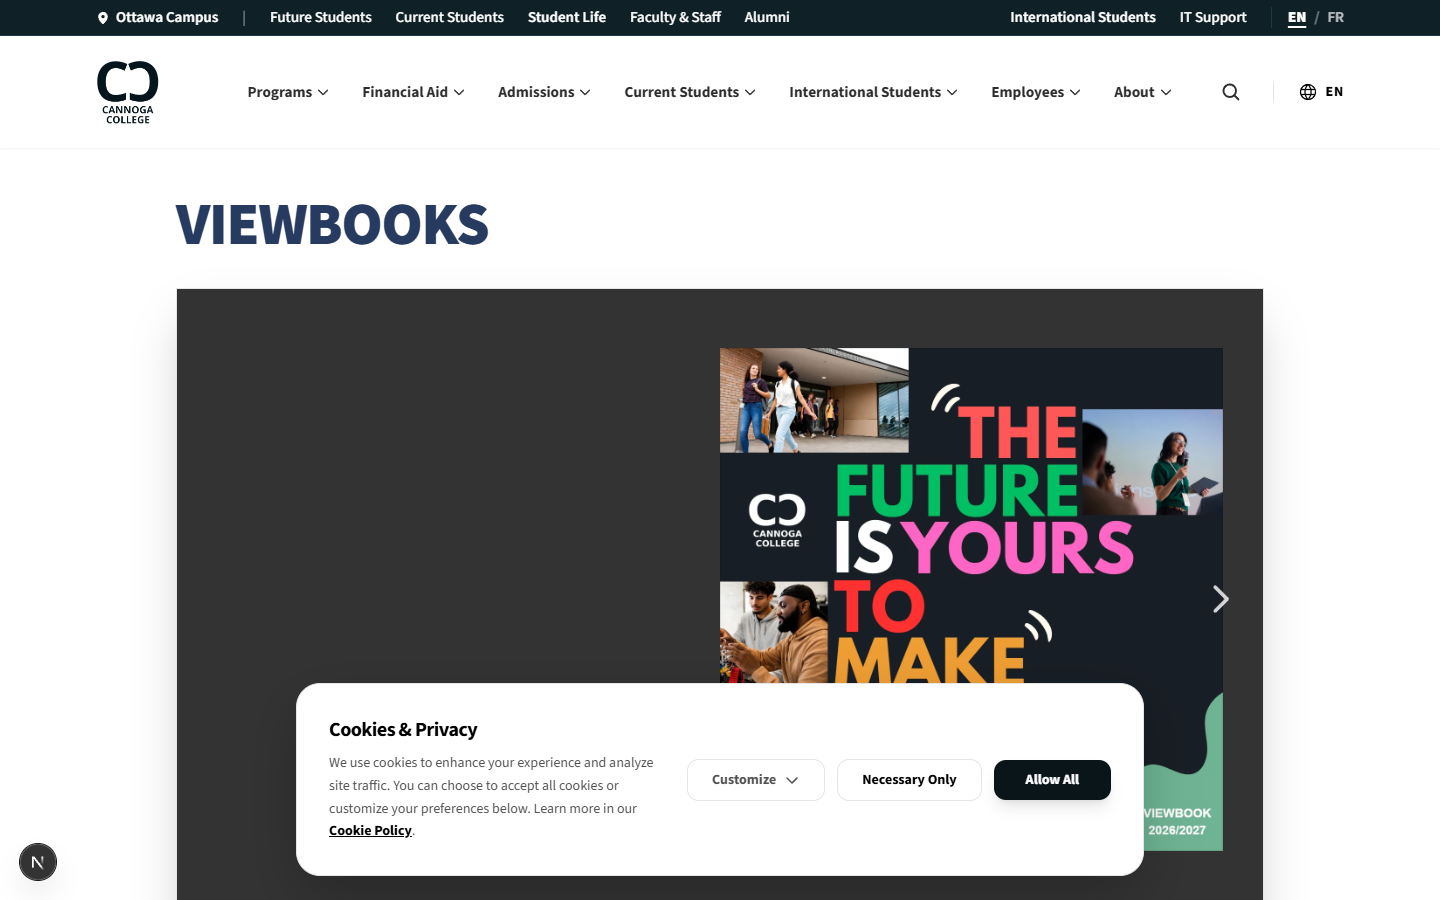
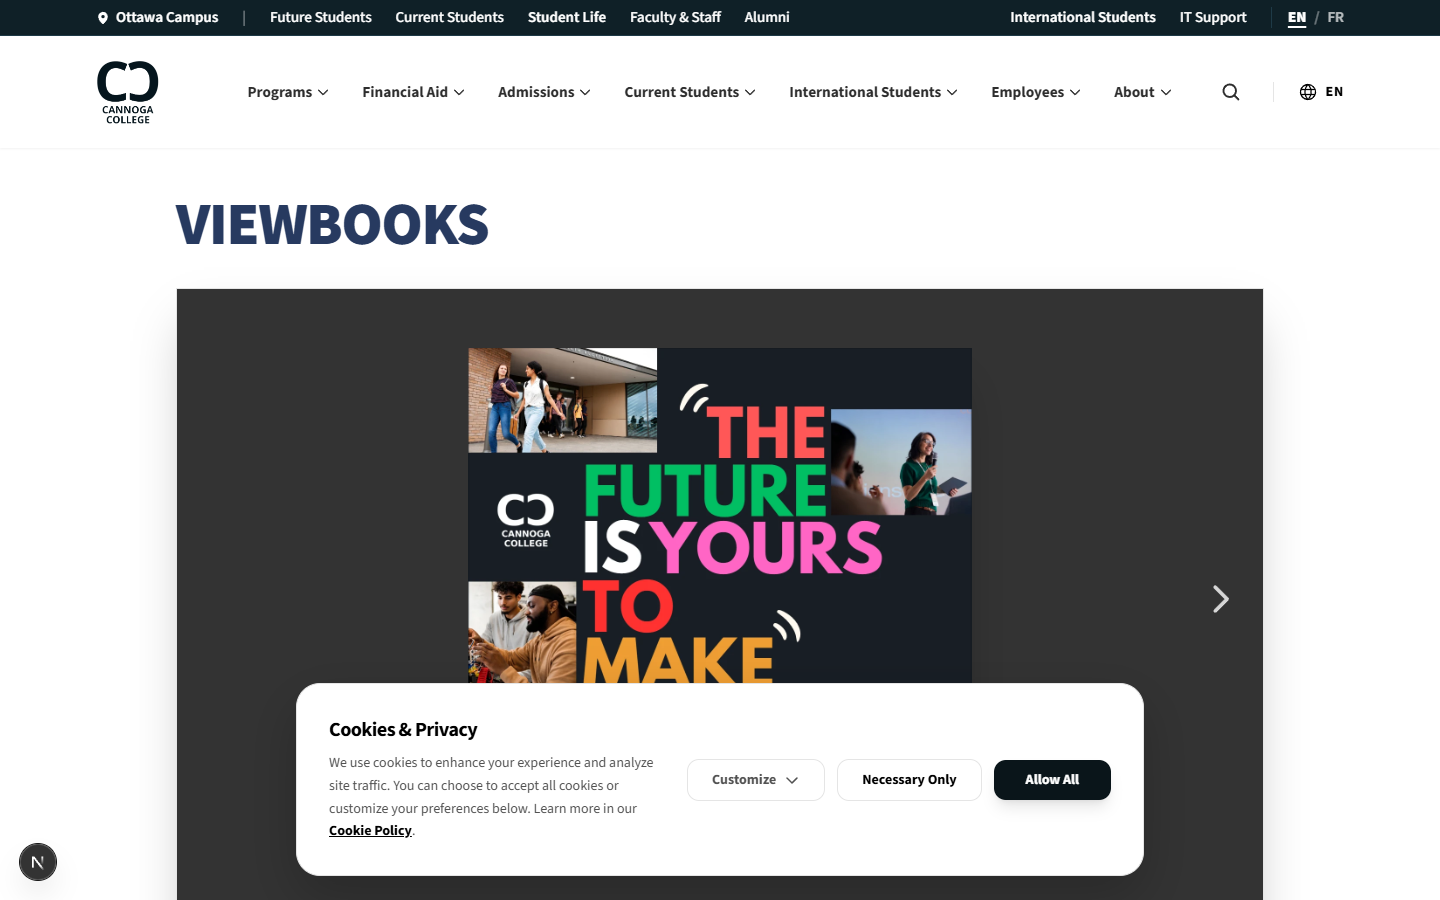
Remove loading modal from viewbook and clean up unused loader state

Changed region(s): [[0.3125, 0.3733, 0.875, 0.9644]]

diff --git a/src/components/flipbook/FlipbookViewer.tsx b/src/components/flipbook/FlipbookViewer.tsx
@@ -11,7 +11,6 @@ import { FlipbookToolbar } from './FlipbookToolbar';
 import { FlipbookThumbnails } from './FlipbookThumbnails';
 import { FlipbookSearch } from './FlipbookSearch';
 import { FlipbookShareModal } from './FlipbookShareModal';
-import { FlipbookLoader } from './FlipbookLoader';
 import { FlipbookError } from './FlipbookError';
 import { trackViewbookEvent } from '@/lib/flipbook/analytics';
 import { useSearchParams } from 'next/navigation';
@@ -44,8 +43,6 @@ export function FlipbookViewer({
     const [orientation, setOrientation] = useState<FlipOrientation>('landscape');
     const [zoom, setZoom] = useState<ZoomLevel>(1.0);
     const [isFullscreen, setIsFullscreen] = useState(false);
-    const [isLoading, setIsLoading] = useState(true);
-    const [loadProgress, setLoadProgress] = useState(25);
     const [error, setError] = useState<string | null>(null);
 
     // Modals & Drawers
@@ -65,14 +62,6 @@ export function FlipbookViewer({
             edition: publication.edition,
             pageNumber: initialStartPage
         });
-
-        const p1 = setTimeout(() => setLoadProgress(60), 100);
-        const p2 = setTimeout(() => setLoadProgress(100), 300);
-
-        return () => {
-            clearTimeout(p1);
-            clearTimeout(p2);
-        };
     }, [publication.edition]);
 
     // Fullscreen change listener
@@ -121,9 +110,7 @@ export function FlipbookViewer({
         setOrientation(orient);
     }, []);
 
-    const handleCanvasReady = useCallback(() => {
-        setIsLoading(false);
-    }, []);
+    const handleCanvasReady = useCallback(() => {}, []);
 
     // Navigation actions
     const handleNextPage = () => {
@@ -306,15 +293,6 @@ export function FlipbookViewer({
                     />
                 </div>
 
-                {/* Loading State Overlay */}
-                {isLoading && (
-                    <FlipbookLoader
-                        title={publication.title}
-                        edition={publication.edition}
-                        progress={loadProgress}
-                    />
-                )}
-
                 {/* Error State Overlay */}
                 {error && (
                     <FlipbookError
@@ -322,7 +300,6 @@ export function FlipbookViewer({
                         pdfUrl={publication.pdfUrl}
                         onRetry={() => {
                             setError(null);
-                            setIsLoading(true);
                         }}
                     />
                 )}

diff --git a/src/app/viewbook/page.tsx b/src/app/viewbook/page.tsx
@@ -71,18 +71,14 @@ export default function ViewbookPage() {
 
                 {/* Contained Flipbook Player Box */}
                 <div className="w-full overflow-hidden shadow-2xl bg-[#333333] border border-neutral-200">
-                    <Suspense fallback={
-                        <div className="h-[520px] bg-[#333333] flex items-center justify-center text-white text-sm font-semibold">
-                            Loading Viewbook...
-                        </div>
-                    }>
+                    <Suspense fallback={<div className="h-[580px] bg-[#333333]" />}>
                         <FlipbookViewer publication={CANNOGA_VIEWBOOK_2026_2027} />
                     </Suspense>
                 </div>
 
                 {/* Subtitle Caption Underneath the Player Box */}
                 <div className="mt-4 sm:mt-5 text-sm sm:text-base font-medium text-neutral-600">
-                    University Transfer &amp; Associate Degrees • 2026/2027 Official Prospectus
+                    Cannoga College • 2026/2027 Official Prospectus
                 </div>
             </div>
         </main>
